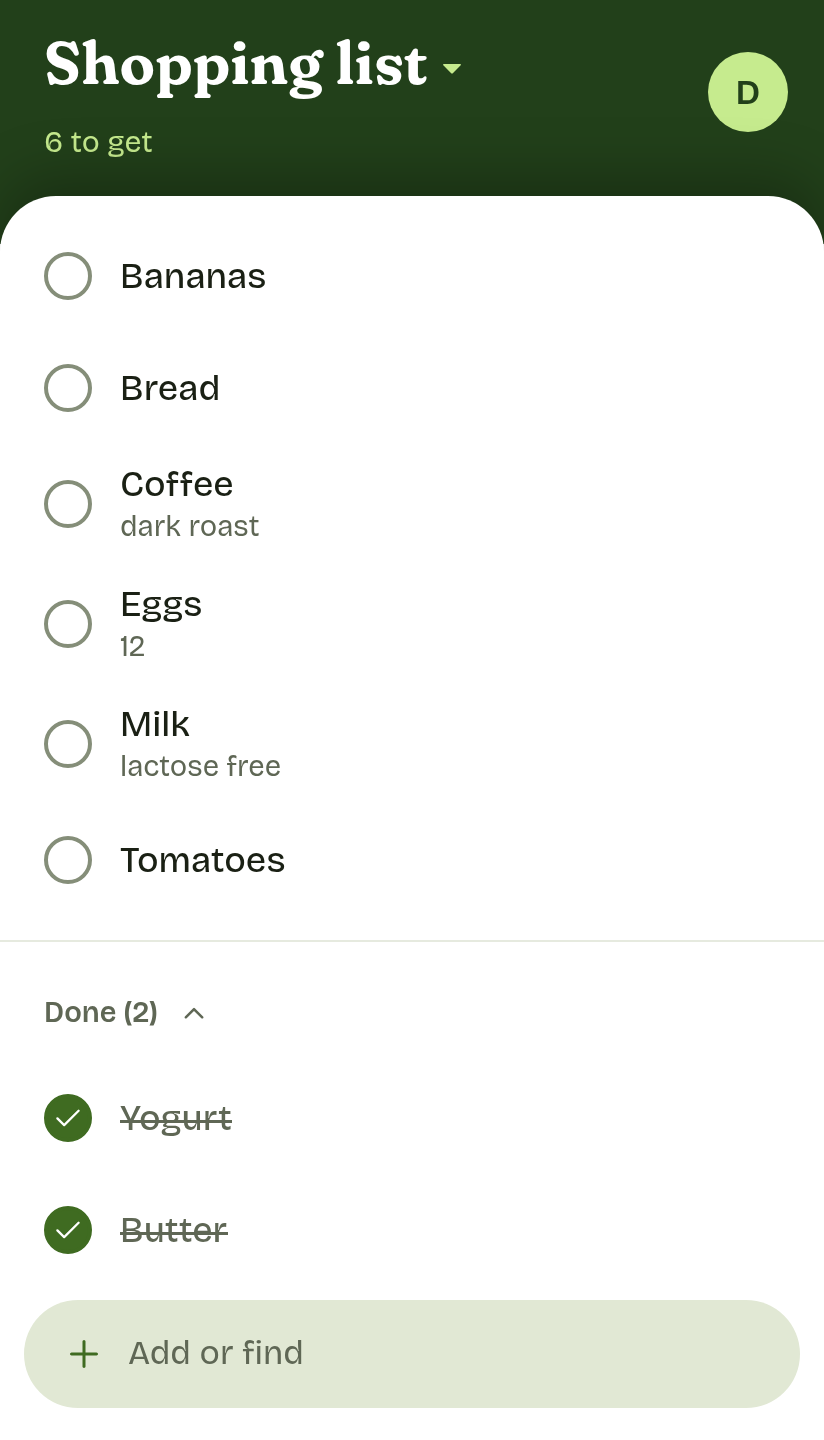
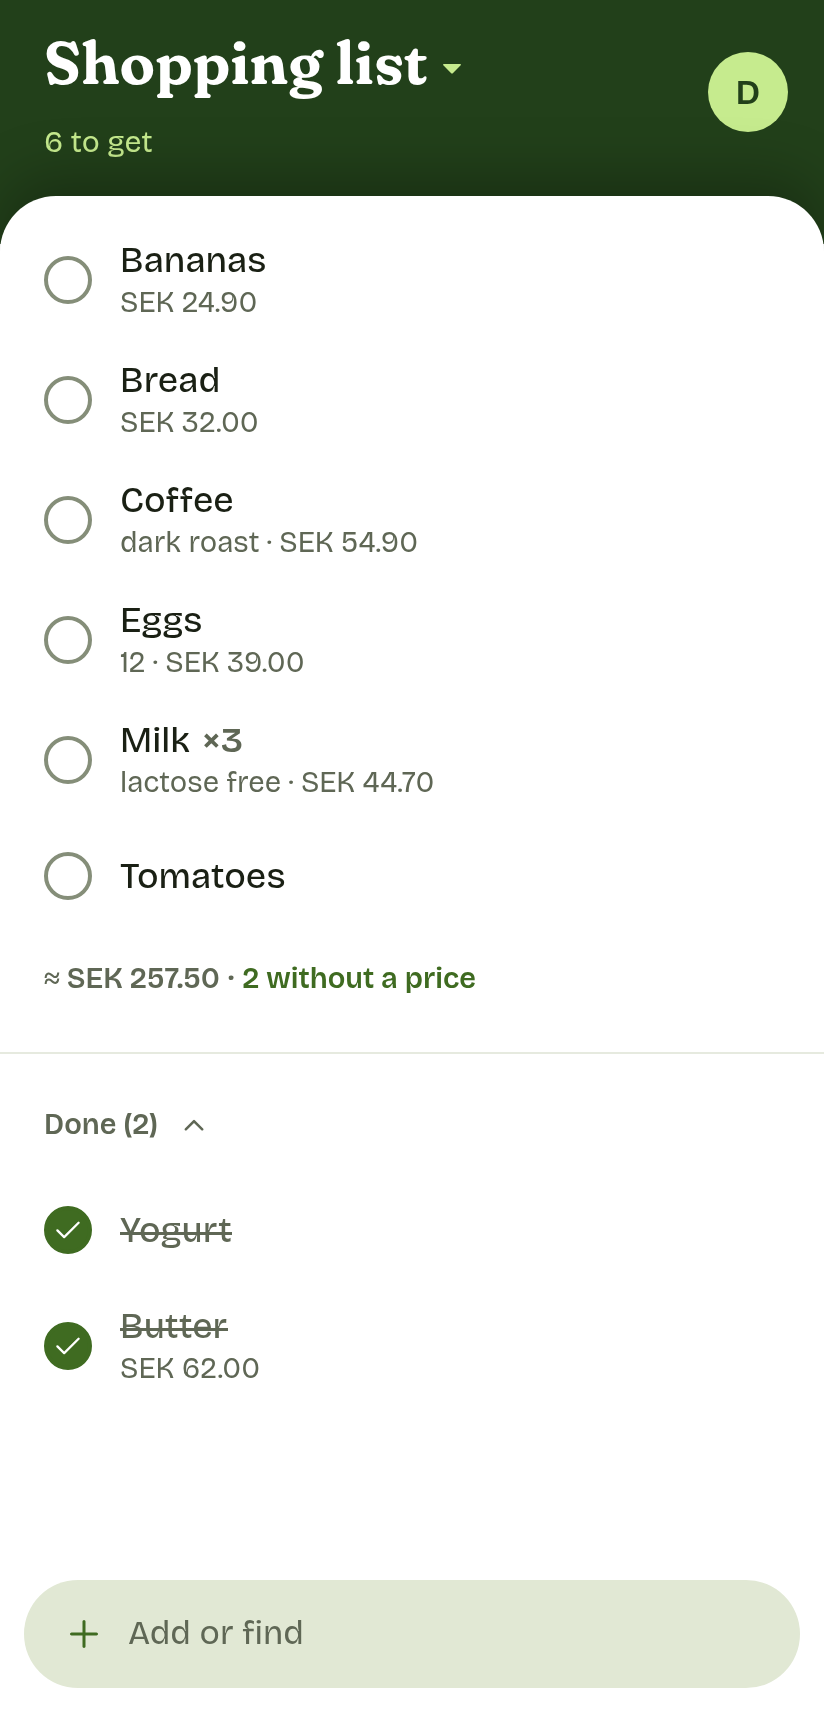
docs: prices and quantities
The README's first feature and status, what guests can do, and the
list's screenshots with prices, a quantity and the total. An end to end
test types a price and a quantity once and sees them come back.

diff --git a/scripts/screenshots.ts b/scripts/screenshots.ts
@@ -17,14 +17,15 @@ import { createUser } from '../apps/server/src/users.ts';
 // The docs' screenshots, light and dark: a fresh build against a throwaway database, filled
 // through the UI with made-up items and guests. A directory as the first argument takes them instead.
 const OUT = process.argv[2] ?? 'docs/images';
-const ITEMS: [name: string, note?: string][] = [
-  ['Bananas'],
-  ['Bread'],
-  ['Coffee', 'dark roast'],
-  ['Eggs', '12'],
-  ['Milk', 'lactose free'],
+// two without a price, so the total says so
+const ITEMS: [name: string, set?: { note?: string; price?: string; quantity?: number }][] = [
+  ['Bananas', { price: '24.90' }],
+  ['Bread', { price: '32' }],
+  ['Coffee', { note: 'dark roast', price: '54.90' }],
+  ['Eggs', { note: '12', price: '39' }],
+  ['Milk', { note: 'lactose free', price: '14.90', quantity: 3 }],
   ['Tomatoes'],
-  ['Butter'],
+  ['Butter', { price: '62' }],
   ['Yogurt'],
 ];
 const CHECKED = ['Butter', 'Yogurt'];
@@ -71,11 +72,13 @@ async function fill(page: Page, password: string): Promise<void> {
   await page.getByRole('button', { name: 'Sign in' }).click();
 
   await add(page, ITEMS.map(([name]) => name));
-  for (const [name, note] of ITEMS) {
-    if (!note) continue;
+  for (const [name, set] of ITEMS) {
+    if (!set) continue;
     await page.getByRole('checkbox', { name }).click({ button: 'right' });
-    await page.getByLabel('Note').fill(note);
-    await page.getByLabel('Note').press('Enter');
+    if (set.note) await page.getByLabel('Note').fill(set.note);
+    for (let q = 1; q < (set.quantity ?? 1); q++) await page.getByRole('button', { name: 'More', exact: true }).click();
+    if (set.price) await page.getByLabel('Price').fill(set.price);
+    await page.getByLabel('Price').press('Enter');
   }
   for (const name of CHECKED) await page.getByRole('checkbox', { name }).tap();
   await settle(page, 'Settings for demo');
@@ -144,7 +147,10 @@ try {
   });
   mkdirSync(OUT, { recursive: true });
   await fill(page, password);
+  // prices and notes give most rows a second line: taller, so Done fits above Add or find
+  await page.setViewportSize({ width: 412, height: 860 });
   await shoot(page, 'list');
+  await page.setViewportSize({ width: 412, height: 720 });
   const link = await share(page);
   await shoot(page, 'share-sheet');
 

diff --git a/e2e/app.spec.ts b/e2e/app.spec.ts
@@ -142,3 +142,31 @@ test('two tabs stay in step', async ({ page, context }) => {
   // the first tab is behind the second: its snackbar still goes
   await expect(page.getByText('Kaffe tillagd')).toBeHidden({ timeout: 8_000 });
 });
+
+test('a price and a quantity, typed once, come back with the item', async ({ page }) => {
+  await login(page, 'e2e-a');
+  await add(page, 'Havregryn');
+  await page.getByRole('checkbox', { name: 'Havregryn' }).click({ button: 'right' });
+  await page.getByRole('button', { name: 'Fler' }).click();
+  await page.getByRole('button', { name: 'Fler' }).click();
+  await page.getByLabel('Pris').fill('14,90');
+  await page.getByLabel('Pris').press('Enter');
+  const row = page.getByRole('checkbox', { name: 'Havregryn', checked: false });
+  await expect(row).toContainText('×3');
+  await expect(row).toContainText('44,70 kr');
+  const total = page.locator('.total');
+  await expect(total).toContainText('≈ 44,70 kr');
+
+  // Done counts: the trip costs the same once it's in the basket
+  await row.click();
+  await expect(page.getByRole('checkbox', { name: 'Havregryn', checked: true })).toBeVisible();
+  await expect(total).toContainText('≈ 44,70 kr');
+
+  await page.getByRole('link', { name: 'Lägg till eller hitta' }).click();
+  await page.getByPlaceholder('Lägg till eller hitta').fill('havregryn');
+  await page.getByPlaceholder('Lägg till eller hitta').press('Enter');
+  await expect(page.getByText('Havregryn tillagd')).toBeVisible();
+  await page.getByRole('button', { name: 'Stäng' }).click();
+  await expect(row).toContainText('×3');
+  await expect(total).toContainText('≈ 44,70 kr');
+});

diff --git a/docs/self-hosting.md b/docs/self-hosting.md
@@ -91,7 +91,7 @@ To let friends without an account use one list, tap the list's name and choose *
   <img src="images/guest-list-light.png" alt="Taco night on a guest's phone: the guest's initial, the faces of the others on the list, and on each row the face of whoever added it, a guest's ringed" width="320">
 </picture>
 
-- **What guests can do:** on that list only, what you can: add items, check them off, remove them, rename them and write notes, with Undo, offline too. A rename shows on your other lists too, as yours does. They don't see your other lists, items that haven't been on this list since the link was made, the list's history from before it, or Settings.
+- **What guests can do:** on that list only, what you can: add items, check them off, remove them, rename them, write notes and set quantities and prices, with Undo, offline too. A rename or a price shows on your other lists too, as yours does. They don't see your other lists, items that haven't been on this list since the link was made, the list's history from before it, or Settings.
 - **Your suggestions:** guests can't remove anything from them. A guest who types the name of an item you removed puts it on the list, but not back in your suggestions, if the item has been on this list since the link was made: their phone knows only those. Any other name they type is a new item, and it stays in your suggestions, also after their Undo, until someone in the household removes it.
 - **The link:** it works for 14 days. A list has one live link: sharing it again shows the same one, and anyone in the household can end it. The list menu marks shared lists with a link icon.
 - **Ending it:** **End link**, under the link, ends it at once, and **Undo** in the snackbar brings it back within its 14 days. Guests see that the link has ended the next time their phone reaches the server. What they added stays on the list, with their names, but changes made offline that never reached the server are lost. A guest whose phone reaches the server before the Undo sees the same, and gets the list back, as the same guest, by opening the link again. Deleting the list ends its link too, until the delete is undone.

diff --git a/README.md b/README.md
@@ -6,12 +6,12 @@ In Latin, a *promus* is the household steward who brings provisions out of the s
 
 <picture>
   <source media="(prefers-color-scheme: dark)" srcset="docs/images/list-dark.png">
-  <img src="docs/images/list-light.png" alt="The list screen: six items, three of them with notes, and two checked items under Done" width="320">
+  <img src="docs/images/list-light.png" alt="The list screen: six items, most with a price and one of them three times, what the list will cost, and two checked items under Done" width="320">
 </picture>
 
 ## Features
 
-- Re-add anything you've bought before with a few letters and a tap. Typos and diacritics are fine: "gradd" finds "grädd". The same item comes back, never a duplicate.
+- Re-add anything you've bought before with a few letters and a tap, typos and diacritics included: "gradd" finds "grädd". The same item comes back, never a duplicate, with its usual quantity and price, and the list adds up what the trip will cost.
 - With the add field empty, your most-bought items that aren't on the list are one tap away.
 - Works fully offline in the store. Changes sync when the server is reachable, with nothing lost or duplicated.
 - Checked items move to a Done section and leave the list after 24 hours.
@@ -22,8 +22,8 @@ In Latin, a *promus* is the household steward who brings provisions out of the s
 
 ## Status
 
-Early: the list, search, offline sync, undo, the setup wizard and household invites are done, and being tried day to day. Sharing a list by link is new.
-Prices come next, then stats, data export and a Home Assistant integration.
+Early: the list, search, offline sync, undo, the setup wizard and household invites are done, and being tried day to day. Sharing a list by link, prices and quantities are new.
+Stats come next, then data export and a Home Assistant integration.
 
 ## Quick start
 
